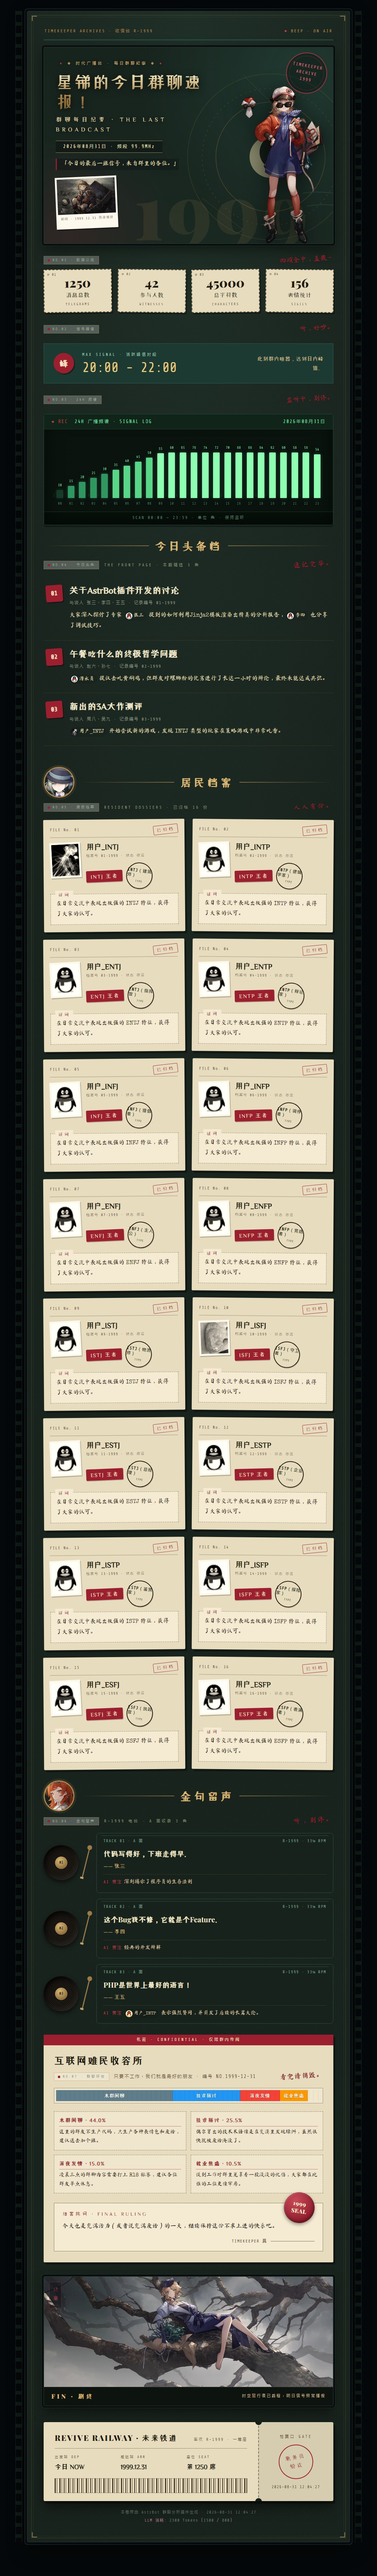
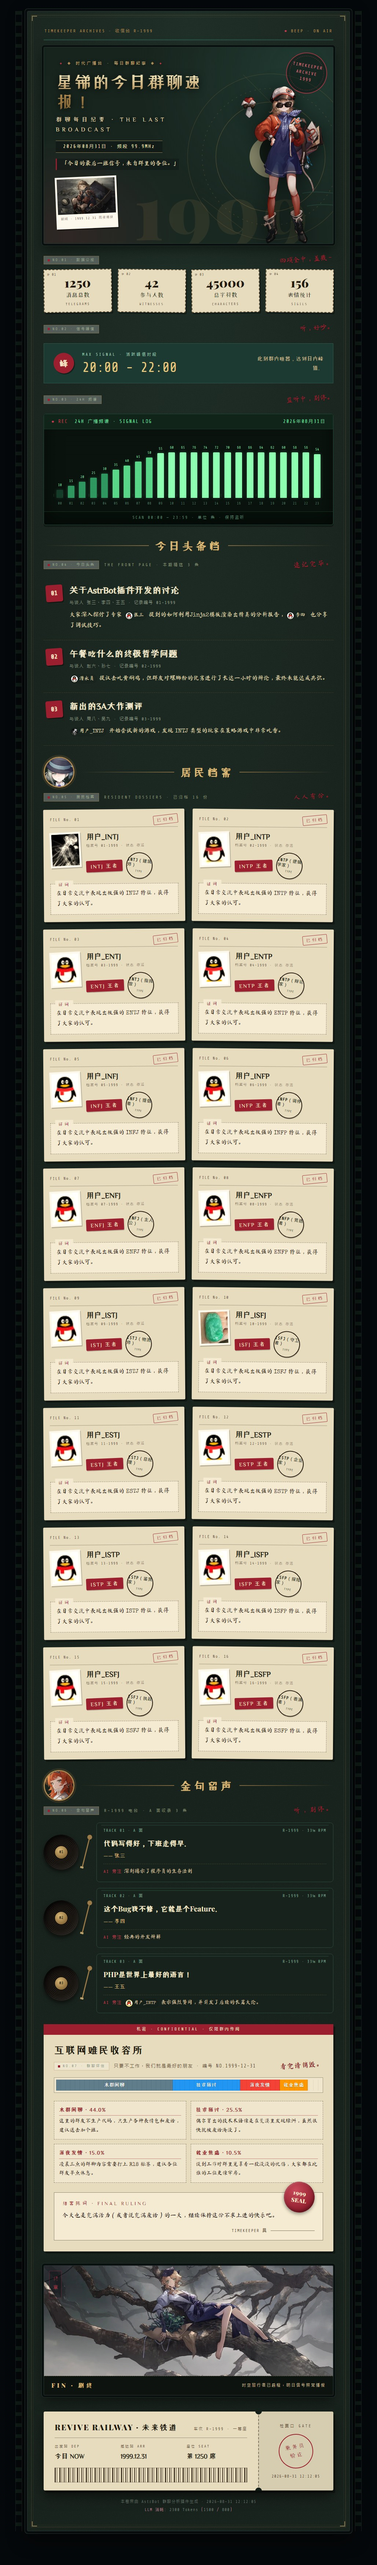
style: 居民档案登记照取消黑白滤镜，恢复彩色（保留拍立得白框）

diff --git a/src/infrastructure/reporting/templates/reverse1999/user_title_item.html b/src/infrastructure/reporting/templates/reverse1999/user_title_item.html
@@ -1,4 +1,4 @@
-{% if titles %}
+{% if titles %}
 <style>
     /* ===== 模块标题分隔线（自包含） ===== */
     .r1999-rule {
@@ -163,7 +163,7 @@
         width: 100%;
         height: 100%;
         object-fit: cover;
-        filter: grayscale(1) contrast(1.12) sepia(0.3);
+        filter: sepia(0.28) saturate(1.35) contrast(1.04);
     }
 
     .r1999-file-photo.fallback svg {
